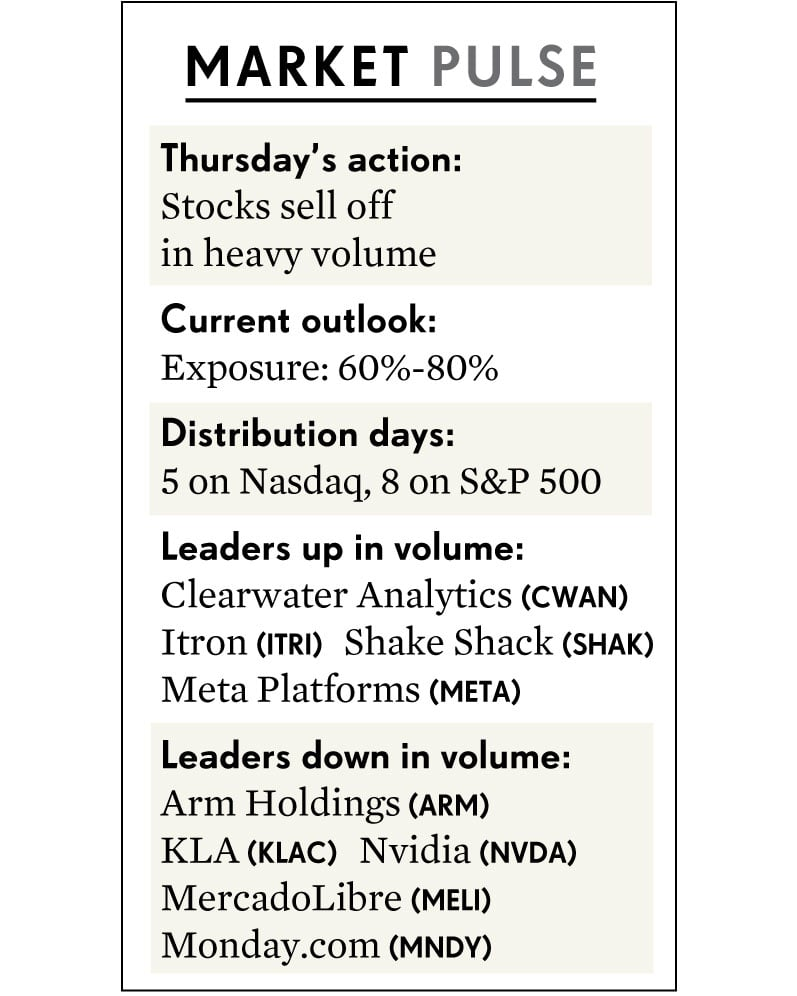
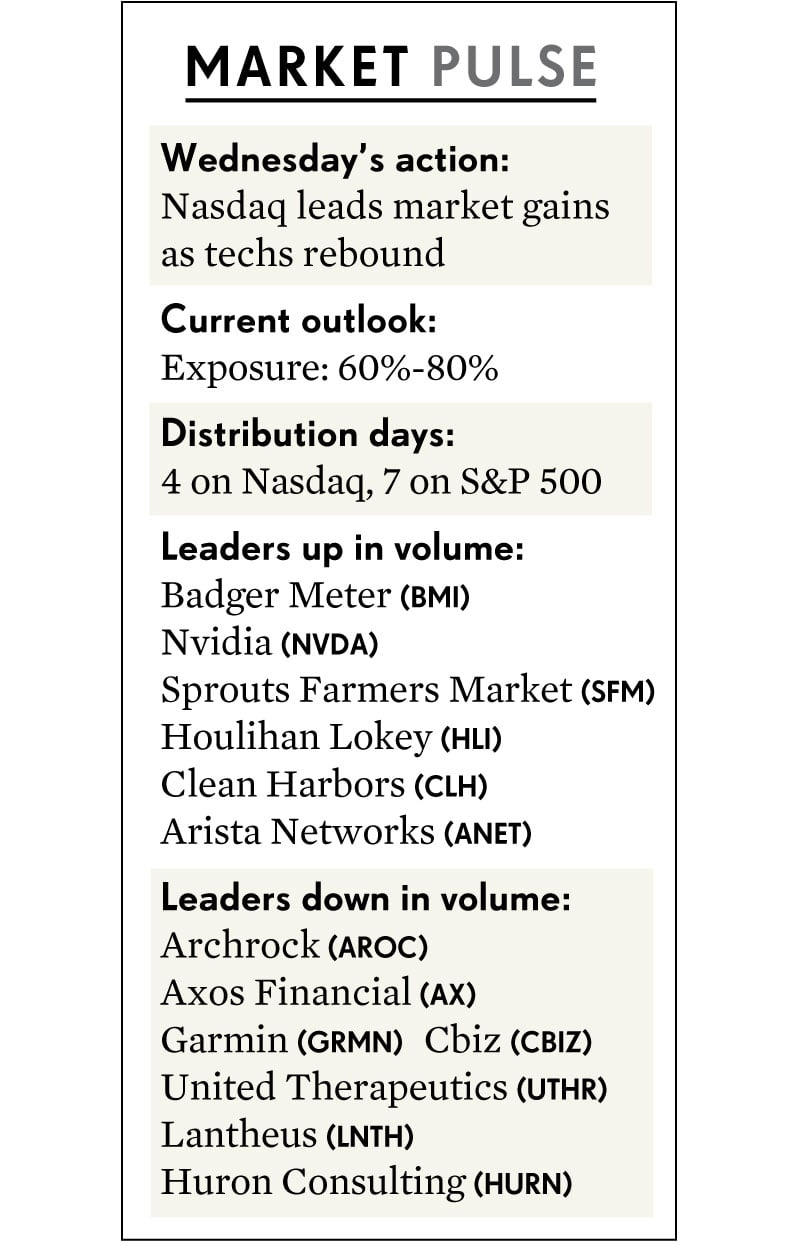
update

Changed region(s): [[0.1506, 0.0311, 0.8432, 1.0]]

diff --git a/_columns/The_Big_Picture/2024-08-01.md b/_columns/The_Big_Picture/2024-08-01.md
@@ -1,142 +1,120 @@
 ---
 layout: content
 title: >-
-  Stock Market Sells Off Broadly; Amazon, Apple Report Earnings After The Bell
-date: 2024-08-01 17:32 -0700
-author: SCOTT LEHTONEN
+  Nasdaq Soars, S&P Holds Critical Level; How Investors Should React To Market Shift
+date: 2024-08-01 22:35 -0700
+author: JUAN CARLOS ARANCIBIA
 ---
 
 
 
 
 
-The stock market tumbled Thursday, erasing the bulk of Wednesday's Federal Reserve-fueled gains. Weak economic data hurt stocks, and up next Wall Street braces for Friday's July jobs report.
+The Nasdaq composite led a powerful retort to stock market bears Wednesday, posting its best day in more than five months. Notably, most of the gains came before the Federal Reserve suggested an interest-rate cut might be in the cards for September.
 
 
 
 
-The Dow Jones Industrial Average sold off 1.2%, while the S&P 500 lost 1.4% and the tech-heavy Nasdaq composite declined 2.3%. The small-cap Russell 2000 index tumbled 3%, its worst day since Feb. 13.
+The Nasdaq jumped 2.6%. It was its best single-day performance since the index surged 3% on Feb. 22. But the Nasdaq still faces a test of resistance at its 50-day moving average.
 
 
-Within the 11 S&P 500 sectors, the defensive utilities and real estate sectors were the best performers, while technology, energy and consumer discretionary fell sharply.
+Late Tuesday, a Nasdaq rally seemed like a fantasy after **Microsoft** ([MSFT](https://research.investors.com/quote.aspx?symbol=MSFT)) slid on [softer growth for its Azure](https://www.investors.com/news/technology/microsoft-stock-ai-chip-stocks-diverge-on-capex-report/) cloud computing business. Microsoft shares fell more than 3% in extended trading but ended up losing only 1.1% by the end of Wednesday's regular session.
 
 
-Volume rose on the Nasdaq and the New York Stock Exchange from Wednesday's session. That gave the Nasdaq and S&P 500 new [distribution days](https://www.investors.com/how-to-invest/investors-corner/stock-market-timing-the-subtle-sign-of-market-tops/) for respective totals of five and eight in the past several weeks. Declining stocks outnumbered advancers by more than 3-to-1 on the Nasdaq and by more than 2-to-1 on the NYSE.
+Other major stocks more than offset Microsoft's loss. **Nvidia** ([NVDA](https://research.investors.com/quote.aspx?symbol=NVDA)) soared nearly 13% after Morgan Stanley [named it a top pick](https://www.investors.com/research/nvda-stock-is-nvidia-a-buy-2/). The chip designer's market cap swelled by $326.9 billion on the stock market Wednesday, the largest one-day increase in history, according to Dow Jones Market Data.
 
 
-Early Friday, the Labor Department's July jobs report comes at another pivotal time for the stock market, as the S&P 500 hangs on the edge of its 50-day moving average. The report is expected to show that the U.S. economy added 180,000 jobs last month, per Econoday. That's down from June's 206,000 additions. The unemployment rate is expected to hold steady at 4.1%.
+**Tesla** ([TSLA](https://research.investors.com/quote.aspx?symbol=TSLA)) rebounded nearly 5%, while **Amazon.com** ([AMZN](https://research.investors.com/quote.aspx?symbol=AMZN)) climbed more than 3%. **Meta Platforms** ([META](https://research.investors.com/quote.aspx?symbol=META)) rose 2.5% ahead of its earnings report and added more than 4% in extended trading.
 
 
-The report follows economic data Thursday that showed some weakness. The S&P 500 and Nasdaq were higher until about 10 a.m. ET, when the Institute for Supply Management's manufacturing index came out. The index slid to 46.8% in July, the fourth straight month of decline. Other data also pointed to a softer economy.
+After closing just below the 50-day moving average Tuesday, the S&P 500 jumped right back above that crucial line, as well as the 5,500 level.
 
 
-**Apple** ([AAPL](https://research.investors.com/quote.aspx?symbol=AAPL)) and **Amazon.com** ([AMZN](https://research.investors.com/quote.aspx?symbol=AMZN)) reported their quarterly results late Thursday, sparking mixed reactions. Apple shares edged higher in extended trading, while Amazon stock declined 6%. Stock market futures were squarely lower.
+Surely, major index gains in higher volume are a sign that institutional investors are devouring as much stock as they can. It was interesting that the Nasdaq had already climbed more than 2.5% before the Fed headlines started to roll in.
 
 
+![](https://www.investors.com/wp-content/uploads/2024/07/MP073124.jpg)The Dow Jones Industrial Average climbed 0.2%, extending its outperformance for the month. It jumped 4.4% in July, beating the S&P 500's 1.1% gain. The Nasdaq closed the month with a loss of nearly 0.8%.
 
 
----
+The Russell 2000 added more than 10% for July. *(An earlier version of this story incorrectly said the Russell rose 0.5%  in July.)*
 
 
-[**Want To Get Quick Profits And Avoid Big Losses? Try IBD SwingTrader**](https://www.investors.com/product/swingtrader/?artProdLink=Swingtrader)
+Stock Market Outlook Improves
+-----------------------------
 
 
+Wednesday's index action was persuasive. Thus, IBD raised its recommended exposure level from a range of 40%-60% to a range of 60%-80%.
 
 
----
+That means investors should relax their guard some, and buy carefully selected stocks at [proper buy points](https://www.investors.com/how-to-invest/investors-corner/buy-point-rule-how-teslas-34-gain-could-have-turned-to-43-profit/). Keep in mind, this is not the most bullish recommended exposure, so remain vigilant for sell signals.
 
 
-Stock Market Today
-------------------
+The stock market often has moved in a dichotomy in which growth lags when value rises, and vice versa. That leaves the chance of an unexpected turn.
 
 
-![](https://www.investors.com/wp-content/uploads/2024/08/MP080124-240x300.jpg)
+The Dow and S&P 500 have moved in opposite directions 41 times so far this year, according to Dow Jones Market Data. That's the most days the two indexes have diverged ever recorded in that time frame. The indexes should surpass the prior full-year record of 45 days made back in 2000.
 
 
-In the Dow Jones index, **Boeing** ([BA](https://research.investors.com/quote.aspx?symbol=BA)) and **Caterpillar** ([CAT](https://research.investors.com/quote.aspx?symbol=CAT)) were among the biggest losers Thursday, with declines of 6.5% and 4.2%. They contributed 177 points of the Dow's 494-point loss.
+If Wednesday was the day the stock market got back on track with its uptrend, there weren't many breakouts among top-rated stocks.
 
 
-The Dow made its lowest close since July 25 but held above the 21-day exponential moving average.
+**Johnson Controls** ([JCI](https://research.investors.com/quote.aspx?symbol=JCI)) faded badly after topping a 74.23 buy point following its earnings report. **Dycom** ([DY](https://research.investors.com/quote.aspx?symbol=DY)), **Tradeweb Markets** ([TW](https://research.investors.com/quote.aspx?symbol=TW)) and **Teva Pharmaceuticals** ([TEVA](https://research.investors.com/quote.aspx?symbol=TEVA)) had limp action around buy points. Investment management firm **Carlyle Group** ([CG](https://research.investors.com/quote.aspx?symbol=CG)), however, held above its 48.52 buy point.
 
 
-[Six of the Magnificent Seven stocks](https://www.investors.com/research/magnificent-seven-stocks-to-buy-and-and-watch/) ended lower. **Meta Platforms** ([META](https://research.investors.com/quote.aspx?symbol=META)) was the sole winner, jumping nearly 5% after the [company's strong Q2 results](https://www.investors.com/news/technology/meta-stock-facebook-q2-earnings-instagram/). Shares regained their 50-day moving average as the stock recovers from a tumble below a 514.01 cup-with-handle entry that caused a sell signal.
+While the record on July breakouts is mixed, some leaders are in follow-on buy areas, such as **Texas Roadhouse** ([TXRH](https://research.investors.com/quote.aspx?symbol=TXRH)).
 
 
-The Innovator IBD 50 ETF ([FFTY](https://research.investors.com/quote.aspx?symbol=FFTY)) declined 2.7% Thursday, to its lowest level since late April. In the [IBD 50](https://research.investors.com/stock-lists/ibd-50/), **Trinity Industries** ([TRN](https://research.investors.com/quote.aspx?symbol=TRN)) shot to new highs following strong earnings. Shares are extended beyond a 32 flat-base buy point.
+Oddly, the Innovator IBD 50 ETF ([FFTY](https://research.investors.com/quote.aspx?symbol=FFTY)) had climbed as much as 1.8% but closed only 0.1% higher.
 
 
-What To Do Now
+Fed Gives Stock Market Bulls More To Cheer
+------------------------------------------
+
+
+The Fed gave a nod to an interest-rate cut in its [policy statement](https://www.federalreserve.gov/newsevents/pressreleases/monetary20240731a.htm) and in Fed Chairman Jerome Powell's press briefing.
+
+
+Powell said [a rate cut in September](https://www.investors.com/news/economy/federal-reserve-meeting-powell-september-fed-rate-cut-sp-500/) "could be on the table." While he added that economic data will determine the final outcome, the panel discussed a rate cut in its meeting.
+
+
+Powell's details emboldened stock market bulls even more, although much of the post-announcement rally faded by the close.
+
+
+Job gains have moderated, the committee said in its statement. At the June meeting, labor market gains had "remained strong." In another hint it is less concerned about inflation, the Fed said inflation goals "continue to move into better balance." In June, the view was that goals had moved "toward better balance."
+
+
+The 10-year Treasury yield was volatile after the Fed news. Late Wednesday, it was at 4.107% — down three basis points.
+
+
+Market Details
 --------------
 
 
-Heavy losses Thursday poured cold water on Wednesday's rally, which marked another change in character for the stock market as [the Fed suggested](https://www.investors.com/market-trend/the-big-picture/stock-market-nasdaq-sp500-dow-jones-powell/) an interest-rate cut in September.
+At least for a day, the stock market reversed some recent trends.
 
 
-While the Nasdaq is back below its 50-day line, the S&P 500 held right at that critical juncture. IBD held its recommended exposure level at 60%-80%.
+Technology Select Sector SPDR ([XLK](https://research.investors.com/quote.aspx?symbol=XLK)), which had slid about 12% since July 10, led the market with a 3.7% increase. The PHLX Semiconductor Index rebounded 7% after losing about 12% in a two-week rout.
 
 
-But Thursday was an expectation breaker that should keep IBD investors on the cautious side, near 60% exposure. Following Wednesday's strong gains, investors would have expected more upside or perhaps a modest loss. Instead, the major stock indexes fell sharply in higher volume than Wednesday's gains.
+Consumer Discretionary Select Sector SPDR ([XLY](https://research.investors.com/quote.aspx?symbol=XLY)) jumped 1.6%. The communications services index regained its 50-day line as it climbed 1.2%. But financials, which rose more than 6% in July, fell 0.3%.
 
 
-[IBD MarketSurge](https://get.investors.com/marketsurge/?artProdLink=MarketSurge)'s Breaking Out Today list had only three stocks Thursday, which makes sense given the stock market weakness. Notably, **Clearwater Analytics** ([CWAN](https://research.investors.com/quote.aspx?symbol=CWAN)) gapped above a 21.89 buy point to hit a new high. There were only two names on the Near Pivot list, suggesting that buying opportunities are drying up.
+The energy sector rose 0.4%. The price of West Texas intermediate crude rose 4.3% to $77.91 per barrel. Brent crude climbed 2.7%. The prospect of a potential conflict between Israel and its enemies grew after [leaders of Hezbollah and Hamas were killed](https://www.wsj.com/world/middle-east/two-enemies-of-israel-are-killed-and-the-mideast-tilts-on-the-brink-of-wider-war-8545bae9?mod=hp_lead_pos1).
 
 
-
-
----
-
-
-**[Join IBD experts as they analyze leading stocks in the current stock market action on IBD Live](https://shop.investors.com/offer/splashresponsive.aspx?id=IBD-Live&intcode=invstcntnartcls%7Ccms%7Cibdlive%7C2020%7C07%7Cibdlive%7Cna%7C%7C727112&src=A00433A)**
-
-
-
-
----
-
-
-
-Itron, Spotify, ServiceNow
---------------------------
-
-
-Amid the battle at the 50-day line for the Nasdaq and S&P, stocks to watch include **Itron** ([ITRI](https://research.investors.com/quote.aspx?symbol=ITRI)), **Spotify** ([SPOT](https://research.investors.com/quote.aspx?symbol=SPOT)) and **ServiceNow** ([NOW](https://research.investors.com/quote.aspx?symbol=NOW)).
-
-
-Spotify, an [IBD SwingTrader](https://www.investors.com/product/swingtrader/?artProdLink=Swingtrader) stock, is in buy range above a 331.08 flat-base entry, according to [IBD MarketSurge](https://get.investors.com/marketsurge/?artProdLink=MarketSurge). [Stockholm-based Spotify](https://www.investors.com/research/ibd-stock-of-the-day/spotify-stock-holds-tight-after-q2-beat/) leads the streaming music market with 246 million total paying subscribers worldwide in the second quarter. It also had 626 million monthly active users in the second quarter, when including its free, advertising-supported service.
-
-
-[ServiceNow](https://www.investors.com/news/technology/servicenow-stock-servicenow-earnings-news-q22024/) stock is in buy range above an 806.52 handle entry despite a 0.4% fall Thursday. Last week, the company reported strong Q2 results. And analysts said ServiceNow seems to be one of the few software companies gaining traction with generative artificial intelligence. ServiceNow is an [IBD Leaderboard](https://www.investors.com/product/leaderboard/?artProdLink=Leaderboard) member.
-
-
-Finally, Itron is breaking out past a 108.04 cup-with-handle entry after a beat-and-raise Q2 report. Itron stock is benefiting from national infrastructure investments. It was the [IBD Stock Of The Day.](https://www.investors.com/research/ibd-stock-of-the-day/itron-stock-breakout-earnings-guidance/)
-
-
-[View General Market Indicator charts page here.](https://www.investors.com/wp-content/uploads/2024/08/DailyGMI_080124.pdf)
-
-
-*Be sure to follow Scott Lehtonen on X/Twitter at [@IBD\_SLehtonen](https://twitter.com/IBD_SLehtonen) for more on the S&P 500 and stock market news.*
-
-
+[View General Market Indicator charts page here.](https://www.investors.com/wp-content/uploads/2024/07/DailyGMI_073124.pdf)
 
 
 **YOU MAY ALSO LIKE:**
 
 
-[Check Out IBD's New Exposure Levels To Help You Stay In Step With The Market Trend](https://www.investors.com/how-to-invest/investors-corner/risk-management-in-the-stock-market-how-much-money-to-invest-now/)
+[Stock Market Forecast For The Next Six Months Is Stacking Up Well. But Don't Ignore These Risks.](https://www.investors.com/news/stock-market-forecast-next-6-months-magnificent-seven-tech-sp500-nasdaq/)
 
 
-[Top Growth Stocks To Buy And Watch In Today's Stock Market And Dow Jones](https://www.investors.com/stock-lists/stocks-to-watch-top-rated-ipos-big-caps-and-growth-stocks/)
+[IBD Live: Learn And Analyze Growth Stocks With The Pros](https://shop.investors.com/offer/splashresponsive.aspx?id=IBD-Live&intcode=icmhpbrdcstmsg|cms|ibdlive|2019|11|ibdlive|na|707596&src=A00387A)
 
 
-[Learn How To Time The Market With IBD's ETF Market Strategy](https://www.investors.com/market-trend/ibds-etf-market-strategy/ibds-etf-market-strategy/)
-
-
-[Find The Best Long-Term Investments With IBD Long-Term Leaders](https://www.investors.com/research/ibd-long-term-leaders-screen)
-
-
-[Spot Buy Points And Sell Signals With MarketSurge Pattern Recognition](https://get.investors.com/marketsurge/?artProdLink=MarketSurge)
-
-
+[Get Free IBD Newsletters: Market Prep \| Tech Report \| How To Invest](https://shop.investors.com/offer/splashresponsive.aspx?id=newsletters-howtoinvest)
 
 
 

diff --git a/_columns/Swing_Trading/2024-08-02.md b/_columns/Swing_Trading/2024-08-02.md
@@ -1,0 +1,89 @@
+---
+layout: page
+title: >-
+  What The Expectation Breaker For The S&P 500 Told Us
+date: 2024-08-02 15:26 -0700
+image: /assets/img/swing-trading/2024-08-02.jpg
+author: JUSTIN NIELSEN
+---
+
+
+
+
+
+No indicator can perfectly predict what the stock market will do in the future. That's why we tend to interpret daily action as opposed to coming up with price targets for the market. But studying a lot of market cycles gives you a strong understanding of what normal price action looks like. When the S&P 500 didn't act as expected after its strong move on Wednesday, the [expectation breaker](https://www.investors.com/how-to-invest/investors-corner/growth-stocks-expectation-breakers-what-to-do-when-stock-market-throws-you-curveball/) was a strong reason to reverse our position.
+
+
+
+
+Recognizing A Potential Trend Change In The S&P 500
+---------------------------------------------------
+
+
+The S&P 500 started its latest rally in early May. We often use the SPDR S&P 500 ([SPY](https://research.investors.com/quote.aspx?symbol=SPY)) exchange traded fund to represent its action. You can't invest in an index so we favor SPY as an investable instrument. Except for a brief touch of its 21-day line at the end of May **(1)**, the S&P 500 trended above its 21-day steadily through July **(2)**.
+
+
+After such a powerful rally, a pullback is normal and expected. The question, which we don't know the answer to, is how deep and how long? When the S&P 500 broke below its 21-day line **(3)**, that doesn't necessarily end the uptrend but it should put you on alert.
+
+
+
+
+---
+
+
+**[Jason Shapiro talks about having patience and discipline to wait for the right setup.](https://www.investors.com/ibd-videos/videos/avoid-the-crowd-getting-paid-with-the-contrarian-trade)**
+
+
+
+
+---
+
+
+As the S&P 500 rallied back above the 21-day line **(4)**, it was promising. But just a couple days later a more serious gap down put the index and SPY below their 50-day moving average lines **(5)**.
+
+
+At its low on July 25, SPY was down a little less than 5% from its high **(6)**. That wiped away six weeks of progress in just seven days. It's often said that markets go up stairs on the rally and take the elevator in the pullback. The Nasdaq composite was even worse, dropping nearly 9% from its top by July 25.
+
+
+Follow-Through Days Should Follow Up
+------------------------------------
+
+
+As the S&P 500 rallied from the July 25 low, the low held. Even when tested a few days later **(7)**. The Nasdaq composite, by contrast, undercut its July 25 low.
+
+
+Given the amount of [distribution days](https://www.investors.com/ibd-university/market-timing/market-tops/), one could look for [follow-through day](https://www.investors.com/how-to-invest/investors-corner/follow-through-signals-market-uptrend/) action to suggest the trend was turning back up. On Wednesday, even before the Fed meeting and subsequent news conference by Fed Chairman Jerome Powell, indexes were up sharply across the board.
+
+
+The S&P 500 and SPY ended the day with a 1.6% gain with volume picking up from Tuesday on both the New York and Nasdaq stock exchanges **(8)**. Because we lightened up ahead of the Fed meeting, the follow-through action led us to add the ProShares Ultra S&P 500 ETF ([SSO](https://research.investors.com/quote.aspx?symbol=SSO)) on [SwingTrader](http://shop.investors.com/offer/splashresponsive.aspx?id=SwingTrader&src=A011LPH). It adds leverage to double the move of SPY.
+
+
+It would have been normal for a potential pause after the strong day. What wasn't normal was the relentless selling the next day **(9)**. If a rally isn't strong enough to hold the gains of a follow-through day, the failure rate skyrockets. As noted in our Market School program, an undercut of the low on the follow-through day tends to lead to undercuts of the rally low and rally failures.
+
+
+That's exactly what happened on Friday. Granted, we didn't have an expectation that it would be so dramatic. But when a follow-through day low is undercut on the S&P 500, it sets up a new expectation of weakness. Exiting our position quickly helped us avoid the greater destruction that followed.
+
+
+*More details on past trades are accessible to subscribers and trialists to SwingTrader. [Free trials](http://shop.investors.com/offer/splashresponsive.aspx?id=SwingTrader&src=A011LPH) are available. Follow Nielsen on X, formerly known as Twitter, at [@IBD\_JNielsen](https://twitter.com/IBD_JNielsen).*
+
+
+**YOU MAY ALSO LIKE:**
+
+
+[Want To Know Our Swing Trading Strategies? Watch This Weekly Update.](https://www.investors.com/ibd-videos/category/swing-trader-status-update?archive=1)
+
+
+[The Importance Of Downside Reversals](https://www.investors.com/ibd-videos/videos/what-downside-reversals-can-tell-you-about-market-health)
+
+
+[John Kosar Discusses Faster Rotations This Year And How To Handle Them](https://www.investors.com/ibd-videos/videos/how-to-make-more-money-by-handling-faster-market-rotations)
+
+
+[How Do You Know When A Stock Needs Time To Cool Off? David Ryan Shares The Secrets](https://www.investors.com/ibd-videos/videos/market-wizard-shares-this-secret-to-staying-ahead-of-your-stocks)
+
+
+[Follow Premarket And After-The-Open Action With IBD Experts](https://get.investors.com/ibd-live/)
+
+
+
+
